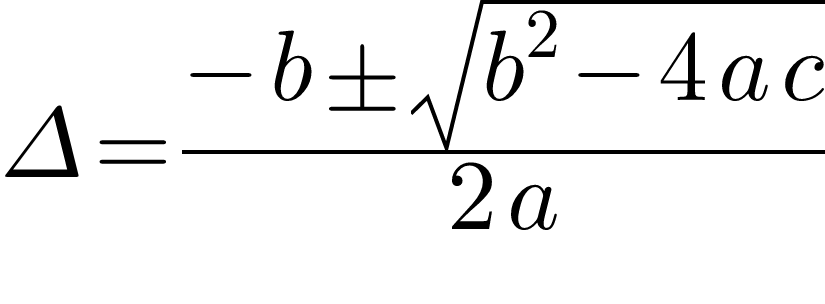
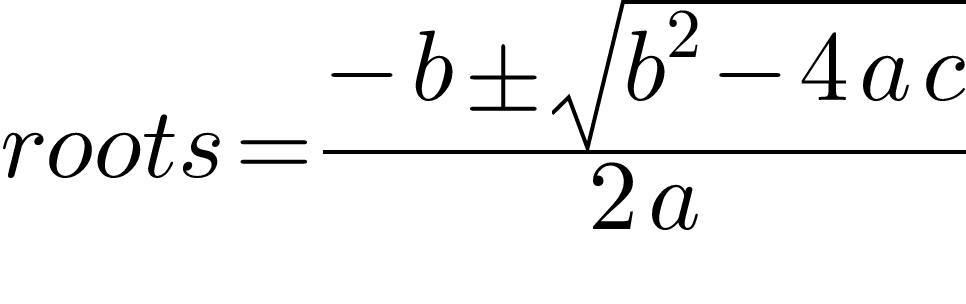
Implement text and correct discriminant test

diff --git a/src/render.rs b/src/render.rs
@@ -3,7 +3,8 @@ use std::cmp::Ordering;
 #[allow(unused)]
 #[allow(dead_code)]
 use crate::mml_types::{
-    Mfrac, Mi, Mn, Mo, Mroot, Mrow, Msub, Msup, mfrac, mi, mn, mo, mroot, mrow, msub, msup,
+    Mfrac, Mi, Mn, Mo, Mroot, Mrow, Msub, Msup, Mtext, mfrac, mi, mn, mo, mroot, mrow, msub, msup,
+    mtext,
 };
 use crate::text_rendering::render_text;
 use tiny_skia::{FillRule, IntRect, Paint, PathBuilder, Pixmap, PixmapPaint, Stroke, Transform};
@@ -19,6 +20,14 @@ pub trait Render {
 impl Render for Mi {
     fn pixmap_with_baseline(&self, font_size: f32) -> (Pixmap, u32) {
         let pixmap = render_text(self.identifier.clone(), font_size);
+        let y = pixmap.height() / 2;
+        (pixmap, y)
+    }
+}
+
+impl Render for Mtext {
+    fn pixmap_with_baseline(&self, font_size: f32) -> (Pixmap, u32) {
+        let pixmap = render_text(self.text.clone(), font_size);
         let y = pixmap.height() / 2;
         (pixmap, y)
     }
@@ -344,7 +353,7 @@ mod tests {
     fn discriminant() {
         let font_size = 100.0;
         let img = mrow(vec![
-            &mi("Δ"),
+            &mtext("roots"),
             &mo("="),
             &mfrac(
                 &mrow(vec![

diff --git a/src/mml_types.rs b/src/mml_types.rs
@@ -68,6 +68,13 @@ pub fn mi(identifier: &str) -> Mi {
     let identifier = identifier.into();
     Mi { identifier }
 }
+pub struct Mtext {
+    pub text: String,
+}
+pub fn mtext(text: &str) -> Mtext {
+    let text = text.into();
+    Mtext { text }
+}
 pub struct Mo {
     pub operator: String,
 }
